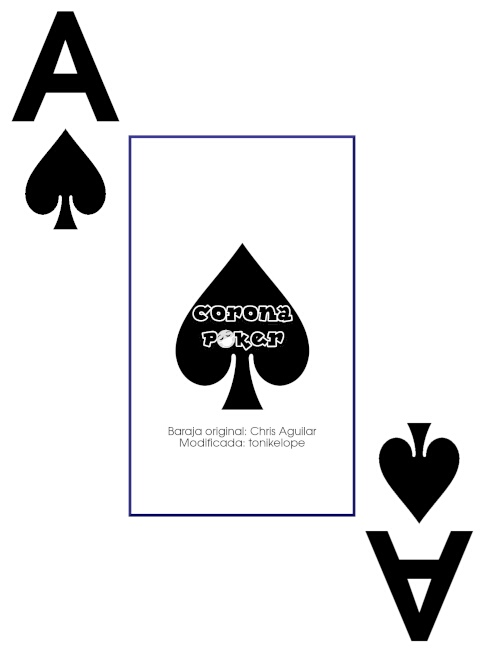
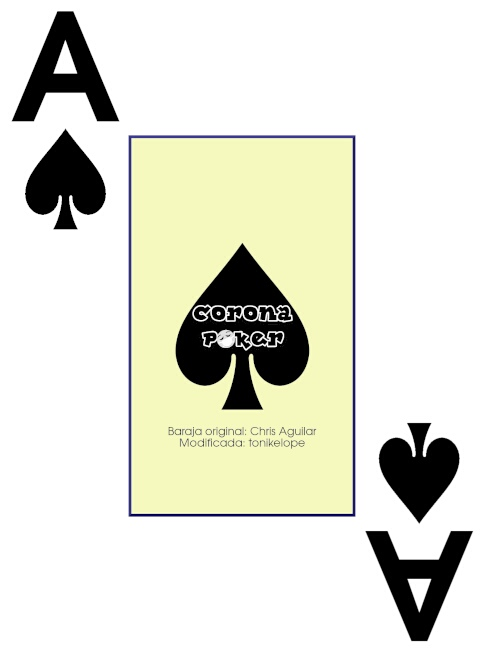
7.4
goliat deck as turbio

Changed region(s): [[0.2479, 0.2147, 0.7438, 0.7975]]

diff --git a/src/main/java/com/tonikelope/coronapoker/AboutDialog.java b/src/main/java/com/tonikelope/coronapoker/AboutDialog.java
@@ -16,7 +16,7 @@ import javax.swing.ImageIcon;
  */
 public class AboutDialog extends javax.swing.JDialog {
 
-    public static final String VERSION = "FINAL-7.3";
+    public static final String VERSION = "FINAL-7.4";
     public static final String TITLE = "¿De dónde ha salido esto?";
     public static final int MAX_MOD_LOGO_HEIGHT = 75;
     private volatile String last_mp3_loop = null;
